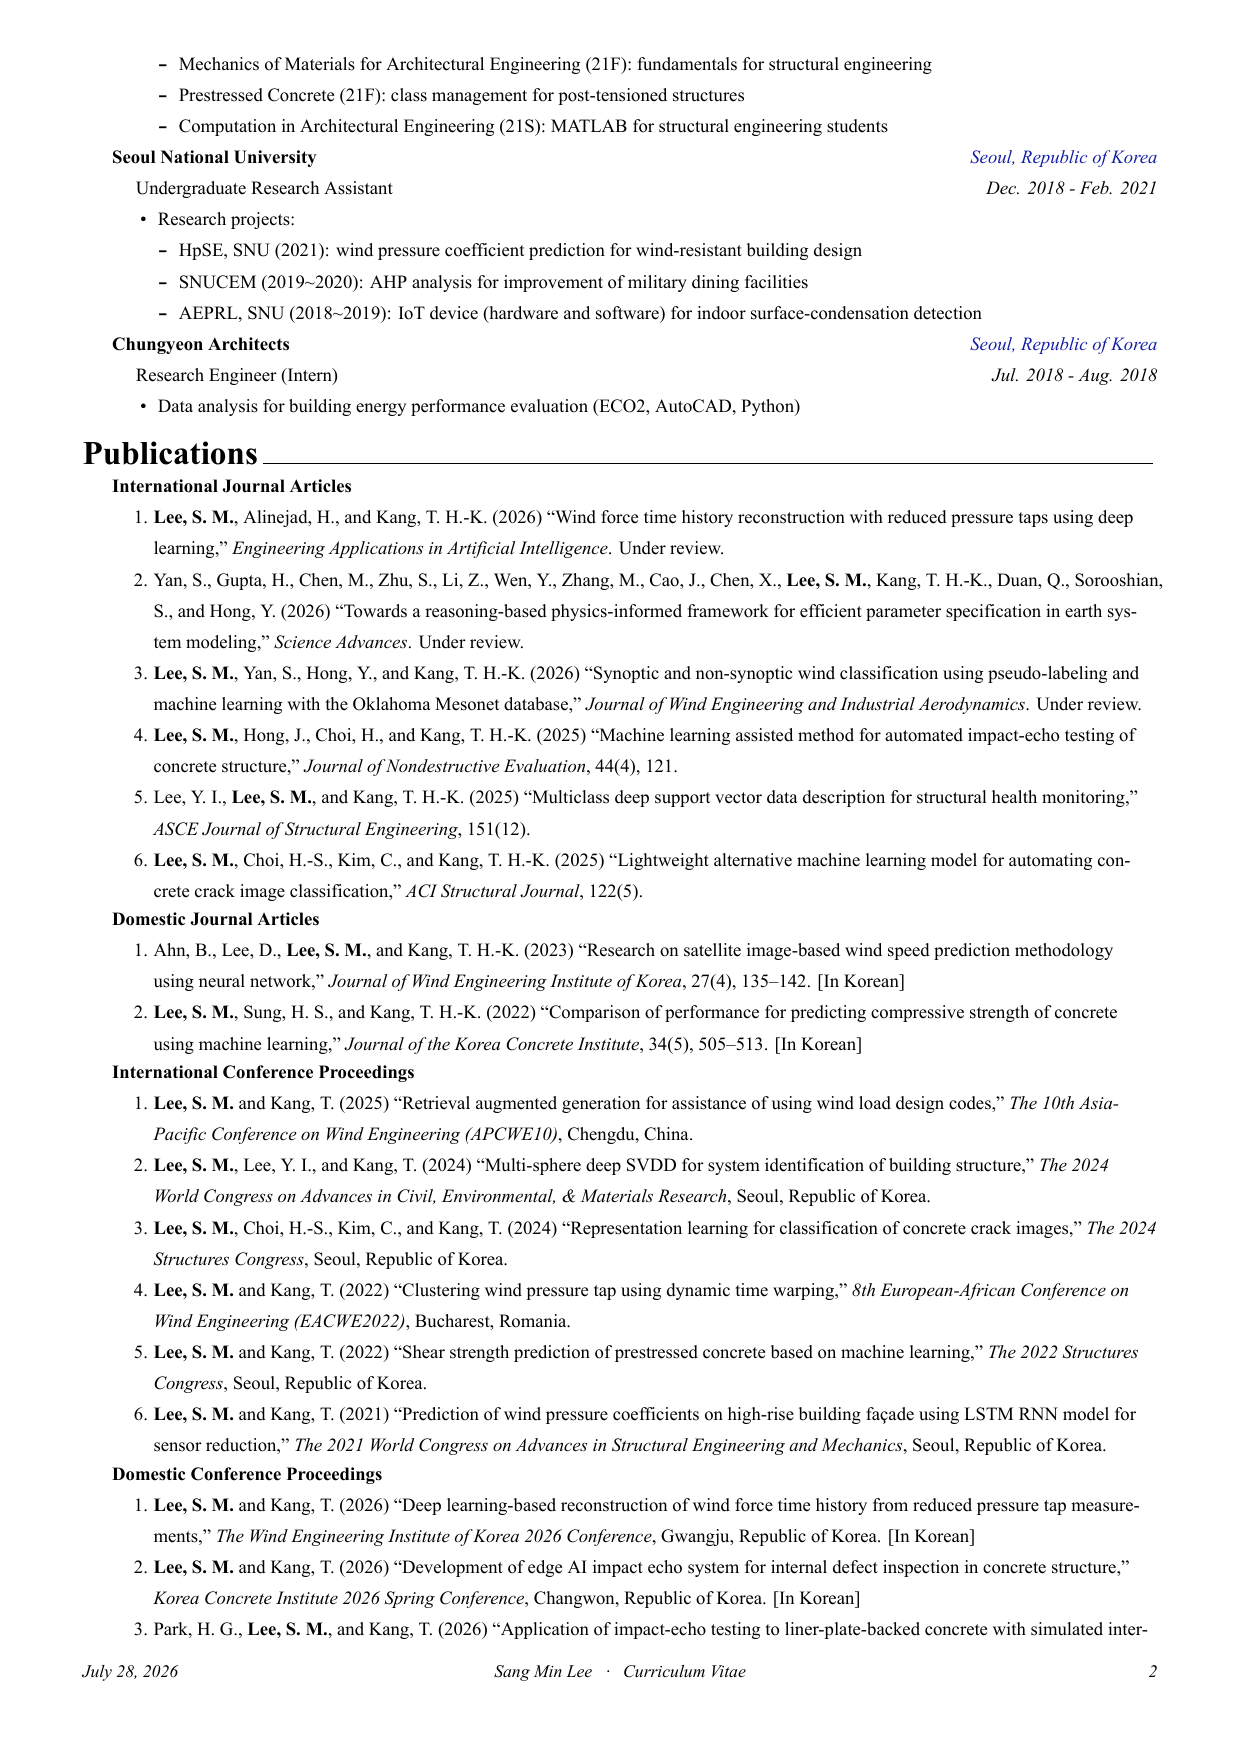
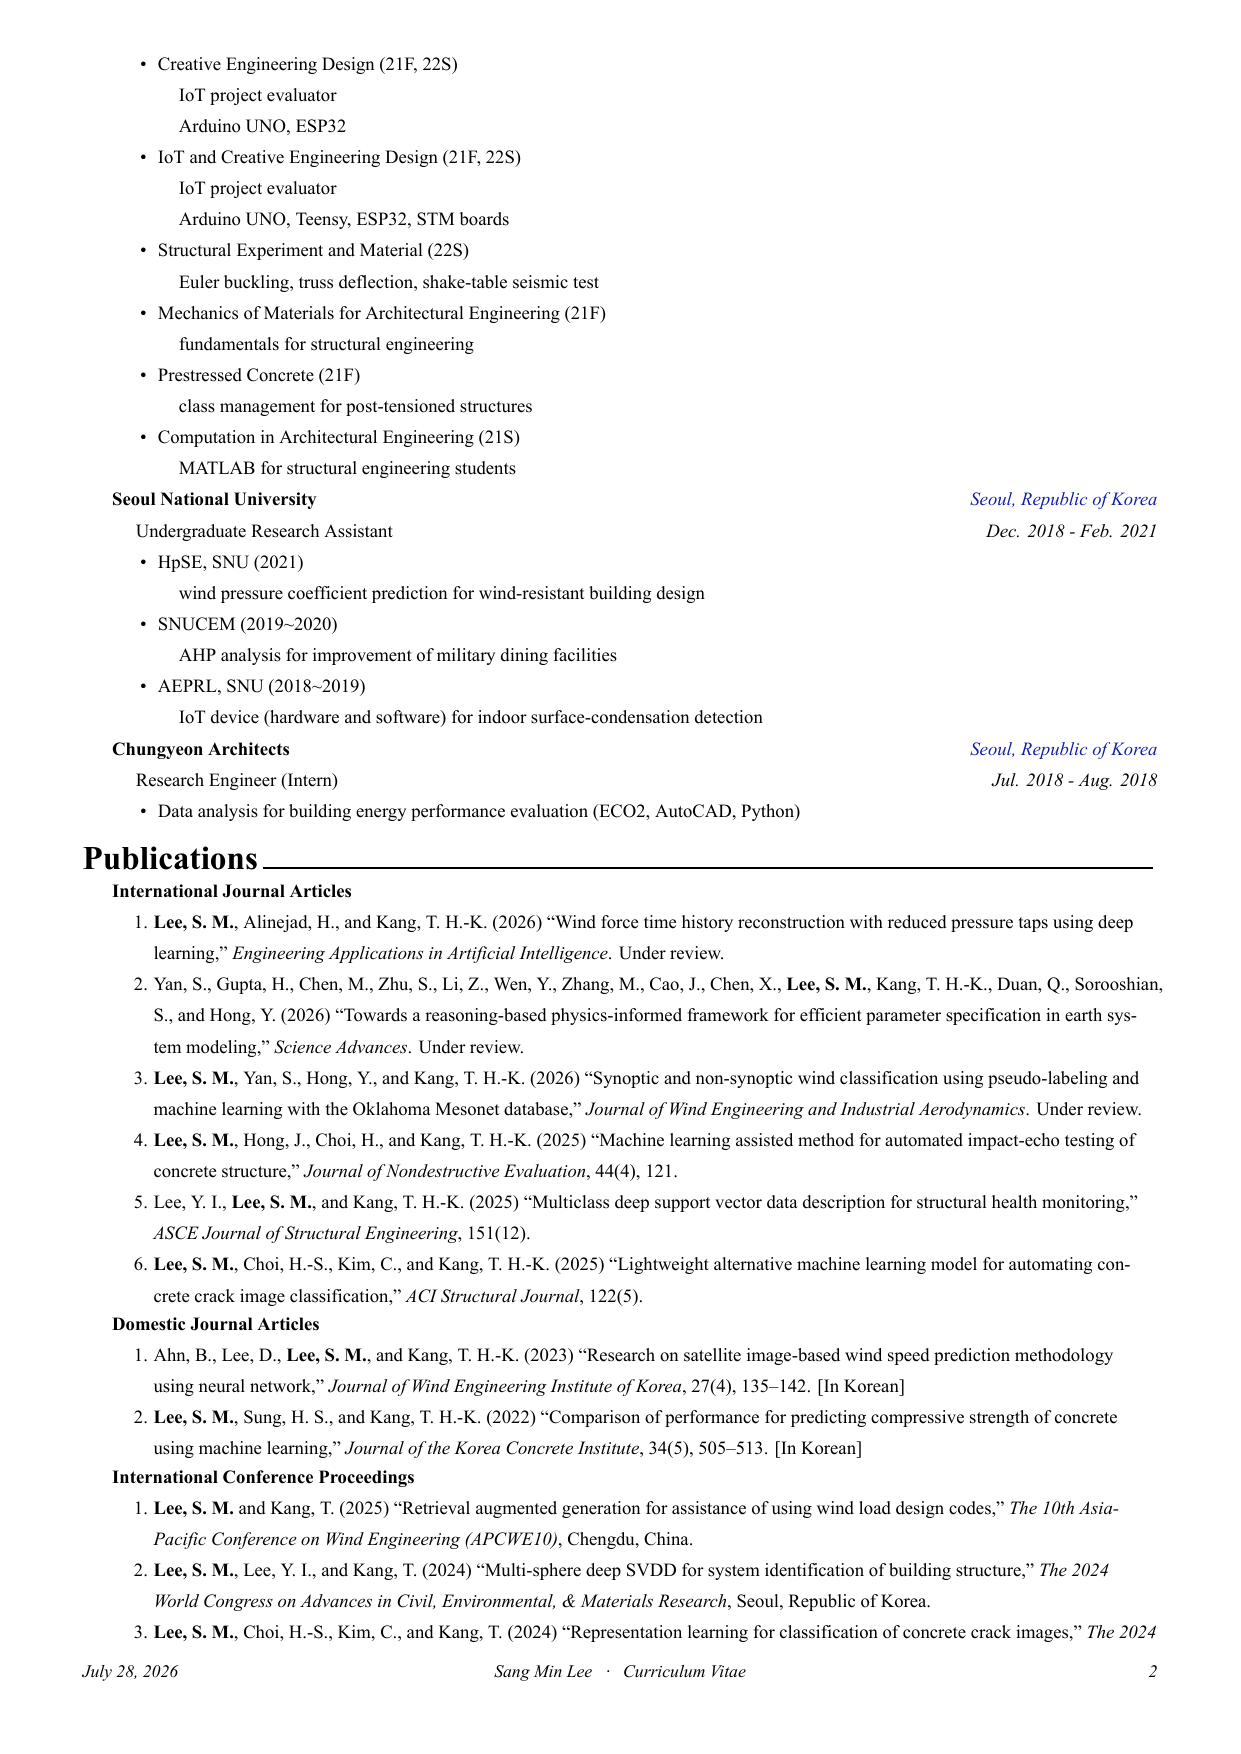
Split course and project details onto indented lines; extend previews to 4 pages

diff --git a/research-cv/cv/research_experience.tex b/research-cv/cv/research_experience.tex
@@ -67,17 +67,49 @@
   {Mar. 2021 - Jun. 2024}
   {
     \begin{cvitems}
-      \item {Courses:}
-        \begin{itemize}[leftmargin=2.5ex, nosep, noitemsep]
+      \item {Architecture and AI (22S, 23S, 24S)}
+        \begin{itemize}[label={}, leftmargin=2.5ex, nosep, noitemsep]
           \setlength{\parskip}{0pt}
-          \item {Architecture and AI (22S, 23S, 24S): guest lecturer on hands-on deep neural networks}
-          \item {Introduction to IoT, AI, and Big Data (21S, 21F, 22S, 22F): IoT project evaluator; Arduino UNO; head TA (22F)}
-          \item {Creative Engineering Design (21F, 22S): IoT project evaluator; Arduino UNO, ESP32}
-          \item {IoT and Creative Engineering Design (21F, 22S): IoT project evaluator; Arduino UNO, Teensy, ESP32, STM boards}
-          \item {Structural Experiment and Material (22S): Euler buckling, truss deflection, shake-table seismic test}
-          \item {Mechanics of Materials for Architectural Engineering (21F): fundamentals for structural engineering}
-          \item {Prestressed Concrete (21F): class management for post-tensioned structures}
-          \item {Computation in Architectural Engineering (21S): MATLAB for structural engineering students}
+          \item {guest lecturer on hands-on deep neural networks}
+        \end{itemize}
+      \item {Introduction to IoT, AI, and Big Data (21S, 21F, 22S, 22F)}
+        \begin{itemize}[label={}, leftmargin=2.5ex, nosep, noitemsep]
+          \setlength{\parskip}{0pt}
+          \item {IoT project evaluator}
+          \item {Arduino UNO}
+          \item {head TA (22F)}
+        \end{itemize}
+      \item {Creative Engineering Design (21F, 22S)}
+        \begin{itemize}[label={}, leftmargin=2.5ex, nosep, noitemsep]
+          \setlength{\parskip}{0pt}
+          \item {IoT project evaluator}
+          \item {Arduino UNO, ESP32}
+        \end{itemize}
+      \item {IoT and Creative Engineering Design (21F, 22S)}
+        \begin{itemize}[label={}, leftmargin=2.5ex, nosep, noitemsep]
+          \setlength{\parskip}{0pt}
+          \item {IoT project evaluator}
+          \item {Arduino UNO, Teensy, ESP32, STM boards}
+        \end{itemize}
+      \item {Structural Experiment and Material (22S)}
+        \begin{itemize}[label={}, leftmargin=2.5ex, nosep, noitemsep]
+          \setlength{\parskip}{0pt}
+          \item {Euler buckling, truss deflection, shake-table seismic test}
+        \end{itemize}
+      \item {Mechanics of Materials for Architectural Engineering (21F)}
+        \begin{itemize}[label={}, leftmargin=2.5ex, nosep, noitemsep]
+          \setlength{\parskip}{0pt}
+          \item {fundamentals for structural engineering}
+        \end{itemize}
+      \item {Prestressed Concrete (21F)}
+        \begin{itemize}[label={}, leftmargin=2.5ex, nosep, noitemsep]
+          \setlength{\parskip}{0pt}
+          \item {class management for post-tensioned structures}
+        \end{itemize}
+      \item {Computation in Architectural Engineering (21S)}
+        \begin{itemize}[label={}, leftmargin=2.5ex, nosep, noitemsep]
+          \setlength{\parskip}{0pt}
+          \item {MATLAB for structural engineering students}
         \end{itemize}
     \end{cvitems}
   }
@@ -89,12 +121,20 @@
   {Dec. 2018 - Feb. 2021}
   {
     \begin{cvitems}
-      \item {Research projects:}
-        \begin{itemize}[leftmargin=2.5ex, nosep, noitemsep]
+      \item {HpSE, SNU (2021)}
+        \begin{itemize}[label={}, leftmargin=2.5ex, nosep, noitemsep]
           \setlength{\parskip}{0pt}
-          \item {HpSE, SNU (2021): wind pressure coefficient prediction for wind-resistant building design}
-          \item {SNUCEM (2019\textasciitilde2020): AHP analysis for improvement of military dining facilities}
-          \item {AEPRL, SNU (2018\textasciitilde2019): IoT device (hardware and software) for indoor surface-condensation detection}
+          \item {wind pressure coefficient prediction for wind-resistant building design}
+        \end{itemize}
+      \item {SNUCEM (2019\textasciitilde2020)}
+        \begin{itemize}[label={}, leftmargin=2.5ex, nosep, noitemsep]
+          \setlength{\parskip}{0pt}
+          \item {AHP analysis for improvement of military dining facilities}
+        \end{itemize}
+      \item {AEPRL, SNU (2018\textasciitilde2019)}
+        \begin{itemize}[label={}, leftmargin=2.5ex, nosep, noitemsep]
+          \setlength{\parskip}{0pt}
+          \item {IoT device (hardware and software) for indoor surface-condensation detection}
         \end{itemize}
     \end{cvitems}
   }

diff --git a/README.md b/README.md
@@ -18,6 +18,7 @@
   <img src="docs/preview.png" width="250" alt="CV — page 1">
   <img src="docs/preview-2.png" width="250" alt="CV — page 2">
   <img src="docs/preview-3.png" width="250" alt="CV — page 3">
+  <img src="docs/preview-4.png" width="250" alt="CV — page 4">
 </p>
 
 <p align="center">
